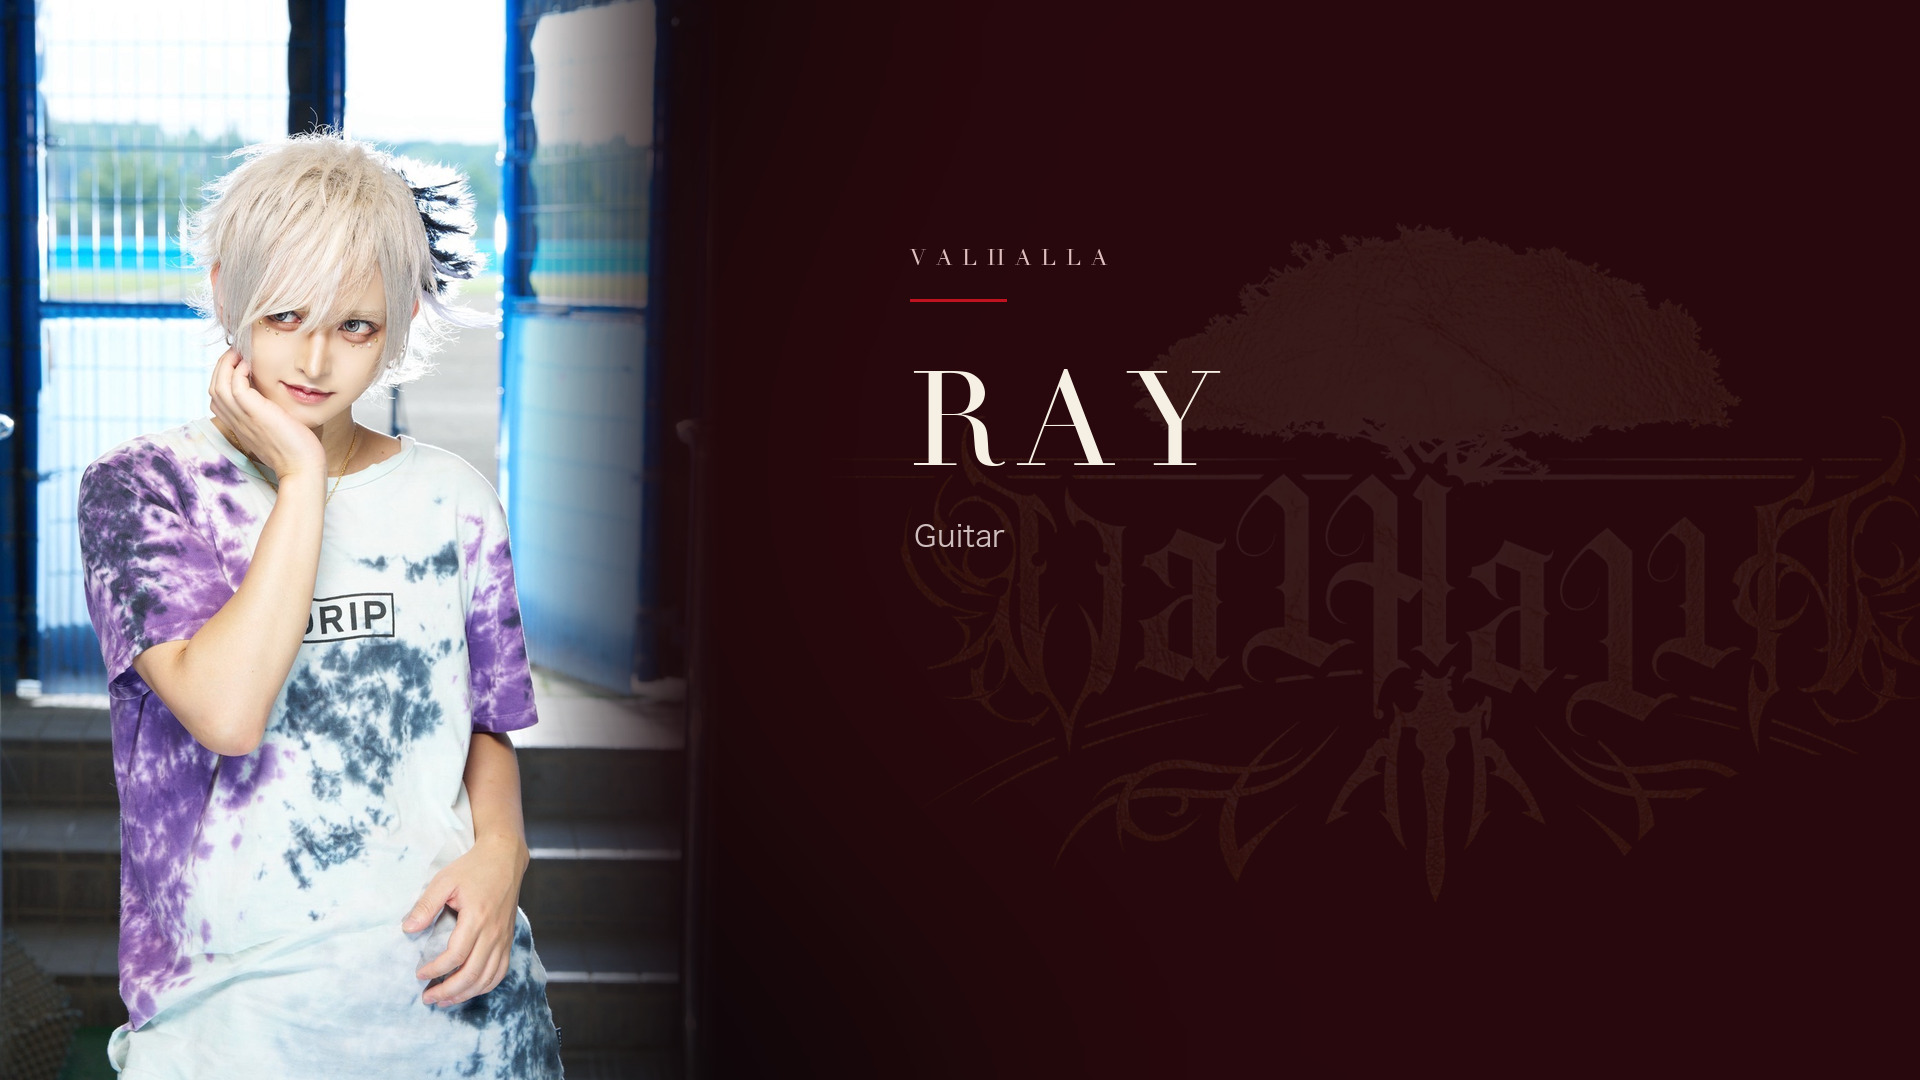
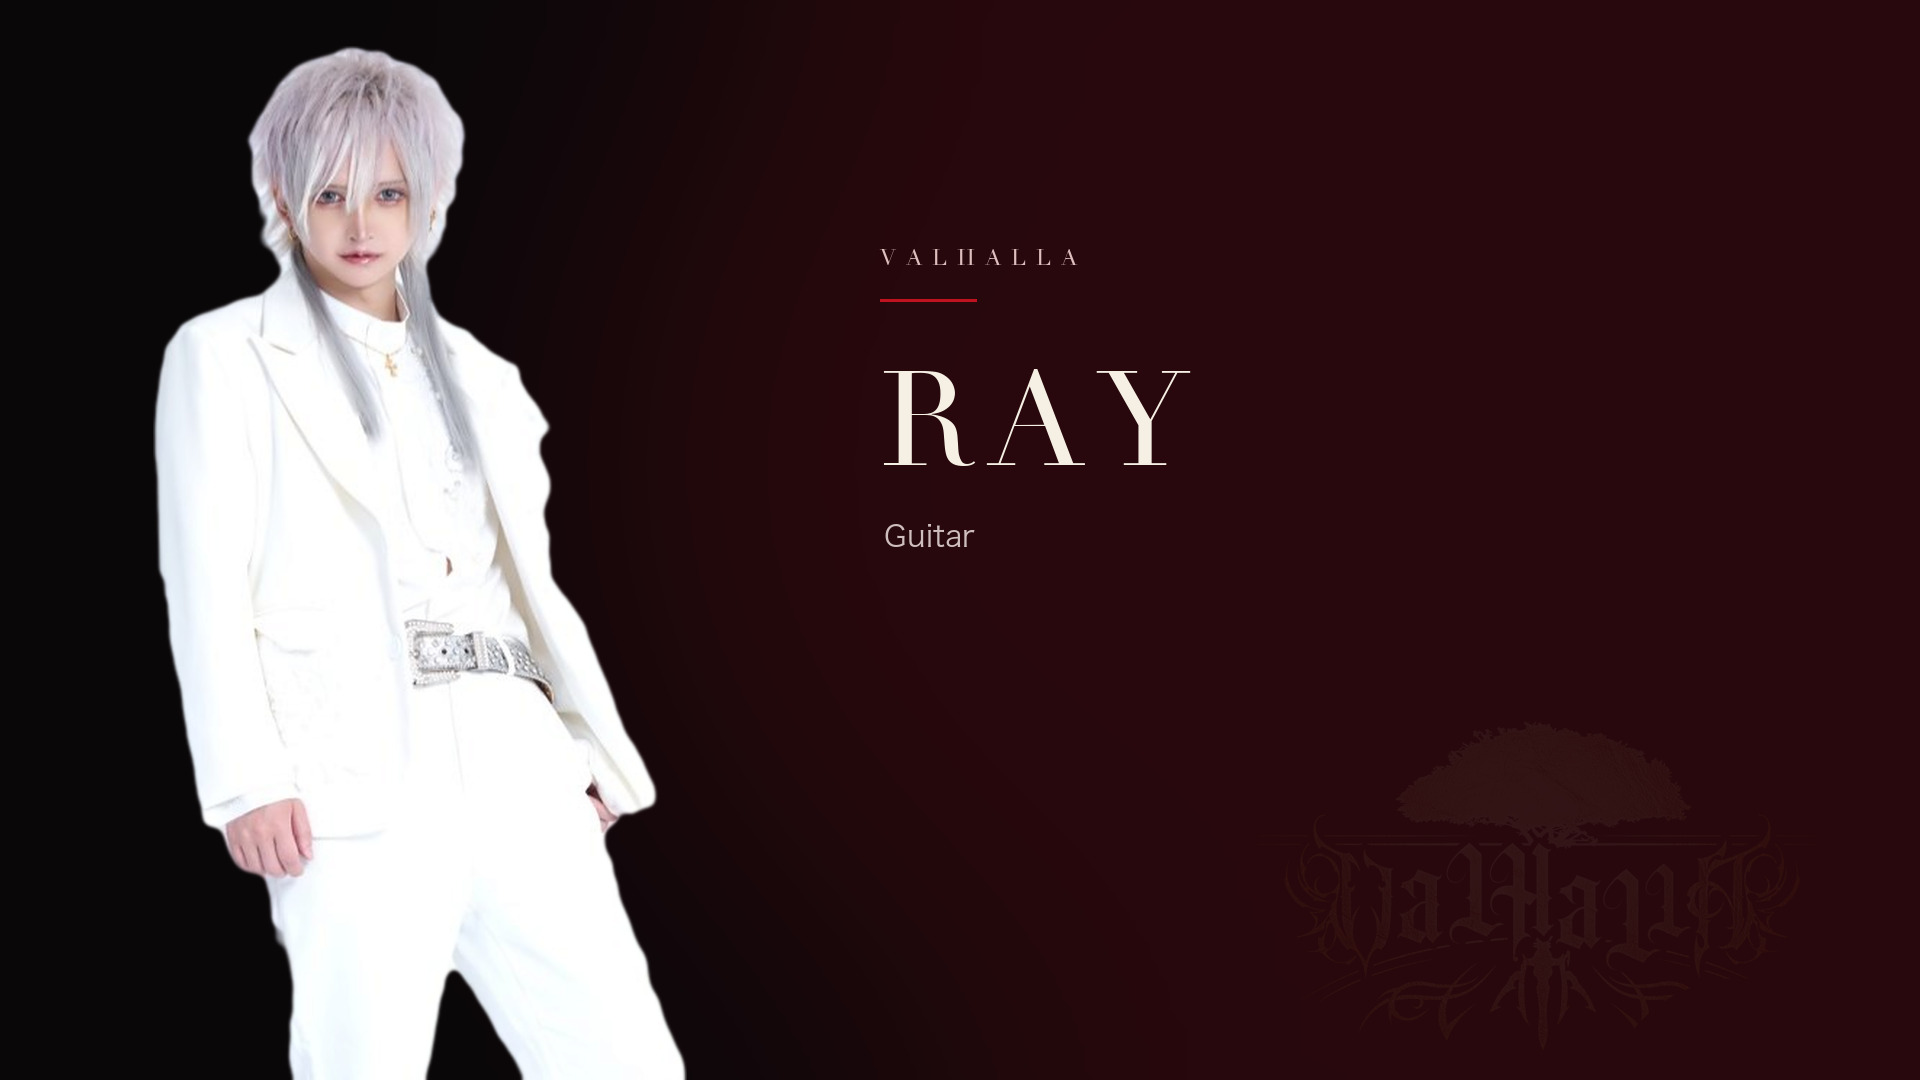
charity: rebuild the three performer cards from cutouts, not snapshots
出演者カードが私服のスナップだった。メインビジュアルの衣装と別人に見えるので、
3人とも「黒地に切り抜き」で揃えた。MIO は先方支給の黒スーツ単体写真、
RAY と KØU は宣材から1人ずつ抜いている。MIO のカードには MIO YASHIRO の
ロゴを添えた（原画296pxなので、それ以上には伸ばさない）。

RAY は白スーツが白背景に溶けて縁が階段状に欠けたので、
中央値ぼかし→開閉→最大塊のみ→ぼかして急な閾値、で輪郭を均した。

受け取った生の素材は assets/charity/received/ に置き、公開リポジトリなので
gitignore した。そこから組んだ図版だけをコミットする。

diff --git a/assets/charity/create_member_cards.py b/assets/charity/create_member_cards.py
@@ -6,11 +6,17 @@
 そこで切らずに、縦の写真を左に立てて、右に名前を置いた台紙にする。
 ページ内の他の図版と画角が揃い、写真は一切損なわれない。
 
+2026-09-16 差し替え：私服のスナップをやめ、3人とも「黒地に切り抜き」で揃えた。
+MIO は単体の黒スーツ写真（先方支給）、RAY と KØU は宣材から1人ずつ抜いている。
+MIO のカードにだけ MIO YASHIRO のロゴを添える。
+
 出力: assets/charity/members/<mio|rei|kou>_card.jpg （各 1920x1080）
 """
 from pathlib import Path
 import sys
 
+import cv2
+import numpy as np
 from PIL import Image, ImageDraw, ImageFilter, ImageFont
 
 sys.path.insert(0, str(Path(__file__).resolve().parent))
@@ -32,11 +38,18 @@ DIDOT = "/System/Library/Fonts/Supplemental/Didot.ttc"
 
 # 併記は MIO だけ（2026-09-11 kazuma 判断）。「社美緒」は経営者としての名前なので
 # 併記して矛盾しない。RAY と KØU はホスト表記しか無いので英字のみで通す。
+RECEIVED = HERE / "received"
+GROUP_CUT = HERE / "group_band_cutout.png"
+
+# 宣材の中で3人が占める横位置（不透明画素を数えて実測した値）
+SPANS = {"mio": (0.020, 0.315), "kou": (0.350, 0.668), "ray": (0.700, 1.000)}
+
 CARDS = (
-    ("mio_card.jpg", "mio.jpg", "MIO", "社美緒", "Guitar ／ 主宰",
-     "Group Yggdrasill 会長"),
-    ("rei_card.jpg", "rei.jpg", "RAY", "", "Guitar", ""),
-    ("kou_card.jpg", "kou.jpg", "KØU", "", "Vocal", ""),
+    # 出力名, 写真の出どころ, 英字, 和名, パート, 補足, ロゴを添えるか
+    ("mio_card.jpg", ("solo", RECEIVED / "mio_suit_cut.png"), "MIO", "社美緒",
+     "Guitar ／ 主宰", "Group Yggdrasill 会長", True),
+    ("rei_card.jpg", ("group", "ray"), "RAY", "", "Guitar", "", False),
+    ("kou_card.jpg", ("group", "kou"), "KØU", "", "Vocal", "", False),
 )
 
 
@@ -53,19 +66,59 @@ def tracked(d: ImageDraw.ImageDraw, xy, text, font, fill, tracking: float) -> No
         x += d.textlength(c, font=font) + tracking
 
 
-def photo_panel(src: Path, box: tuple[int, int]) -> Image.Image:
-    """縦の写真を、箱の高さいっぱいに立てる。切るのは左右だけ。"""
-    im = Image.open(src).convert("RGB")
-    k = box[1] / im.height
-    im = im.resize((round(im.width * k), box[1]), Image.Resampling.LANCZOS)
-    if im.width > box[0]:                      # はみ出したぶんは左右から均等に
-        x = (im.width - box[0]) // 2
-        im = im.crop((x, 0, x + box[0], box[1]))
-    return im
+def smooth_alpha(im: Image.Image) -> Image.Image:
+    """切り抜きの縁を均す。
+
+    白いスーツ（RAY）は白い背景との差が小さいので、抜いたままだと
+    縁が階段状に欠ける。中央値ぼかしと開閉で粒を落としてから、
+    わずかにぼかして急な閾値で戻すと、輪郭が滑らかになる。
+    """
+    a = np.array(im.convert("RGBA"))
+    alpha = a[..., 3]
+    alpha = cv2.medianBlur(alpha, 7)
+    k = cv2.getStructuringElement(cv2.MORPH_ELLIPSE, (9, 9))
+    alpha = cv2.morphologyEx(alpha, cv2.MORPH_CLOSE, k)
+    alpha = cv2.morphologyEx(alpha, cv2.MORPH_OPEN, k)
+
+    solid = (alpha > 60).astype(np.uint8)      # 浮いた破片を落とす
+    n, lab, st, _ = cv2.connectedComponentsWithStats(solid, 8)
+    if n > 1:
+        biggest = 1 + int(np.argmax(st[1:, cv2.CC_STAT_AREA]))
+        alpha[lab != biggest] = 0
+
+    alpha = cv2.GaussianBlur(alpha, (0, 0), 2.2)
+    alpha = np.clip((alpha.astype(np.float32) - 128) * 6 + 128, 0, 255)
+    alpha = cv2.GaussianBlur(alpha.astype(np.uint8), (0, 0), 0.9)
+    a[..., 3] = alpha
+    return Image.fromarray(a, "RGBA")
 
 
-def build(out_name: str, photo: str, roman: str, kanji: str, part: str,
-          note: str) -> None:
+def trim(im: Image.Image) -> Image.Image:
+    """切り抜きの周りの透明な余白を落とす。"""
+    box = im.getchannel("A").point(lambda v: 255 if v > 8 else 0).getbbox()
+    return im.crop(box) if box else im
+
+
+def cutout(source) -> Image.Image:
+    """カードに立てる人物を、背景を外した状態で返す。"""
+    kind, ref = source
+    if kind == "solo":
+        return trim(Image.open(ref).convert("RGBA"))
+    im = Image.open(GROUP_CUT).convert("RGBA")
+    a, b = SPANS[ref]
+    part = im.crop((round(im.width * a), 0, round(im.width * b), im.height))
+    return trim(smooth_alpha(part))
+
+
+def stand(src: Image.Image, height: int, headroom: int = 46) -> Image.Image:
+    """人物を、カードの高さに合わせて立てる。頭の上に少しだけ空きを残す。"""
+    k = (height - headroom) / src.height
+    return src.resize((max(1, round(src.width * k)),
+                       max(1, round(src.height * k))), Image.Resampling.LANCZOS)
+
+
+def build(out_name: str, source, roman: str, kanji: str, part: str,
+          note: str, with_logo: bool = False) -> None:
     base = Image.new("RGB", (W, H), INK).convert("RGBA")
 
     # 地：中央から右へ向かう淡いクリムゾンの滲み
@@ -76,23 +129,20 @@ def build(out_name: str, photo: str, roman: str, kanji: str, part: str,
         ImageFilter.GaussianBlur(150))
     base = Image.composite(Image.new("RGBA", (W, H), DEEPEST_CRIMSON + (255,)),
                            base, glow)
-    base = stamp(base, scale=0.62, opacity=20, center=(0.74, 0.52))
+    # 透かしは小さく、文字の無いところへ（2026-09-16）。
+    # 大きく敷くと木の部分が枠で切れて茶色い塊に見え、名前に線がかぶる
+    base = stamp(base, scale=0.30, opacity=14, center=(0.80, 0.82))
 
-    # 写真は左を裁ち落としにする。左に黒い帯を残すと、貼っただけに見える
-    # 2:3 の写真を高さいっぱいに立てると幅は 720 前後。切るのは、はみ出した時だけ
-    panel = photo_panel(HERE / photo, (840, H)).convert("RGBA")
-    pw = panel.width
-
-    # 右端は不透明度を落として地に溶かす。地の色で塗りつぶすと段差が出る
-    grad = Image.new("L", (pw, 1), 255)
-    gp = grad.load()
-    for i in range(200):
-        gp[pw - 1 - i, 0] = round(255 * (i / 199) ** 1.3)
-    panel.putalpha(grad.resize((pw, H)))
-    base.alpha_composite(panel, (0, 0))
+    # 人物は背景を外してある。四角い写真を貼ると「貼っただけ」に見えるので、
+    # 切り抜きのまま黒地に立てる
+    person = stand(cutout(source), H)
+    if person.width > 760:                     # 幅が出すぎたら高さで詰める
+        person = stand(cutout(source), round(H * 760 / person.width))
+    px = max(40, (760 - person.width) // 2 + 40)
+    base.alpha_composite(person, (px, H - person.height))
 
     d = ImageDraw.Draw(base)
-    x = pw + 190
+    x = 880
     d.line((x, 300, x + 96, 300), fill=CRIMSON + (255,), width=3)
 
     tracked(d, (x, 340), roman, face(DIDOT, 132), CREAM + (255,), 12)
@@ -103,6 +153,15 @@ def build(out_name: str, photo: str, roman: str, kanji: str, part: str,
     d.text((x + 4, y), part, font=face(SANS, 30), fill=(206, 190, 190, 255))
     if note:
         d.text((x + 4, y + 52), note, font=face(SANS, 26), fill=(184, 170, 172, 255))
+        y += 52
+    if with_logo:
+        # MIO YASHIRO のロゴ。原画が 296px なので、それ以上には伸ばさない
+        logo = Image.open(RECEIVED / "mio_yashiro_logo.png").convert("RGBA")
+        lw = min(logo.width, 268)
+        logo = logo.resize((lw, round(logo.height * lw / logo.width)),
+                           Image.Resampling.LANCZOS)
+        d.line((x + 4, y + 110, x + 4 + 72, y + 110), fill=CRIMSON + (255,), width=2)
+        base.alpha_composite(logo, (x + 2, y + 140))
 
     eyebrow = face(DIDOT, 22)
     tracked(d, (x, 244), "VALHALLA", eyebrow, (222, 190, 190, 235), 10)
